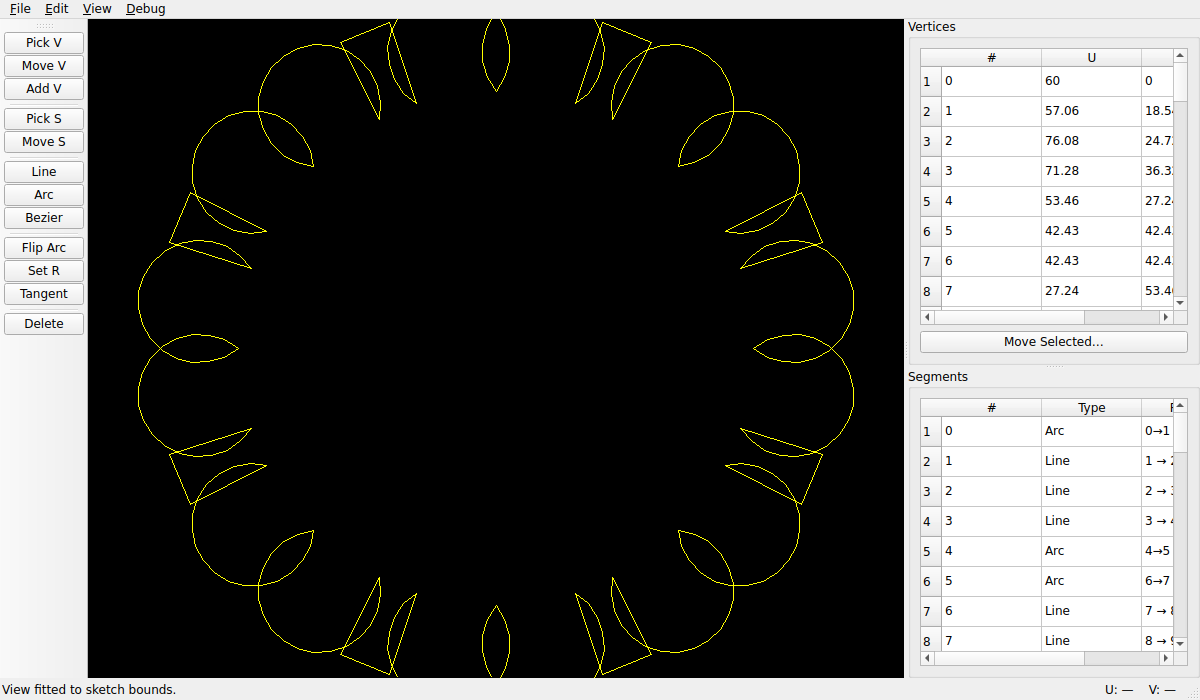
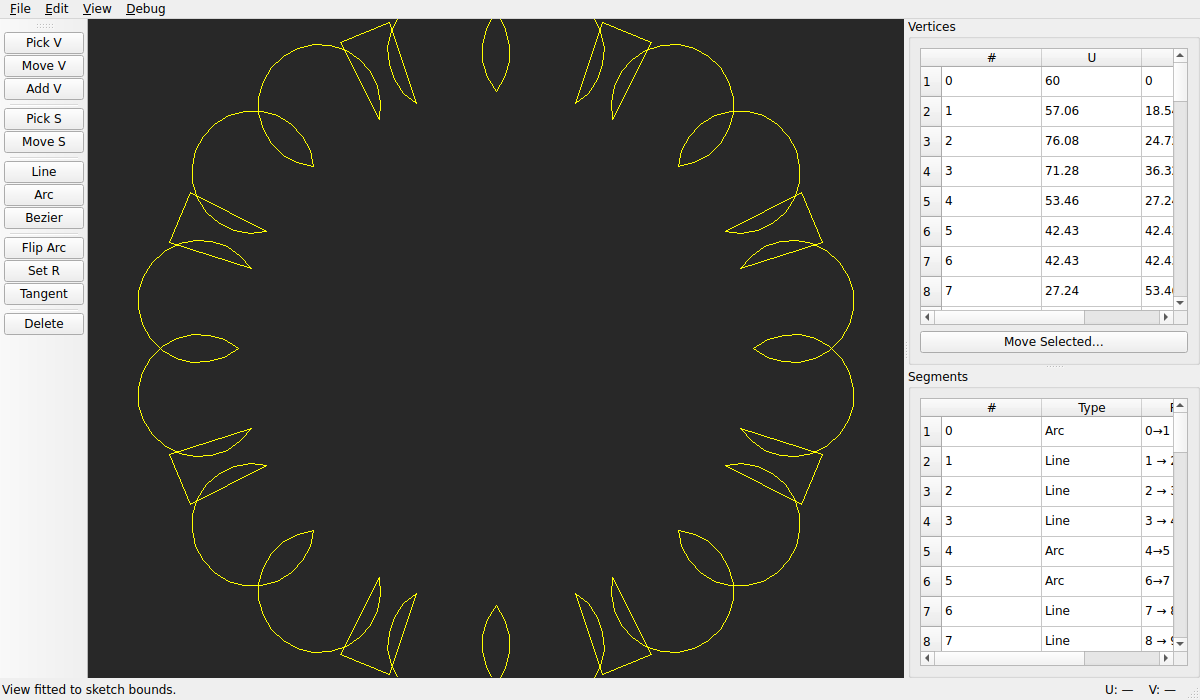
Use dark grey DM background in get_viewport_image for better screenshot quality

diff --git a/brlcad/src/libqtcad/QgSW.cpp b/brlcad/src/libqtcad/QgSW.cpp
@@ -425,8 +425,17 @@ void QgSW::get_viewport_image(QImage &img)
     unsigned char *dm_bg1;
     unsigned char *dm_bg2;
     dm_get_bg(&dm_bg1, &dm_bg2, dmp);
-    dm_set_bg(dmp, dm_bg1[0], dm_bg1[1], dm_bg1[2],
-		   dm_bg2[0], dm_bg2[1], dm_bg2[2]);
+    /* Use a dark-grey background for better visibility in screenshots;
+     * fall through to the stored background if it is already non-black. */
+    unsigned char bg1r = dm_bg1[0], bg1g = dm_bg1[1], bg1b = dm_bg1[2];
+    unsigned char bg2r = dm_bg2[0], bg2g = dm_bg2[1], bg2b = dm_bg2[2];
+    if (bg1r == 0 && bg1g == 0 && bg1b == 0 &&
+	bg2r == 0 && bg2g == 0 && bg2b == 0) {
+	/* Default black: override with a neutral dark background */
+	bg1r = bg1g = bg1b = 40;
+	bg2r = bg2g = bg2b = 40;
+    }
+    dm_set_bg(dmp, bg1r, bg1g, bg1b, bg2r, bg2g, bg2b);
     dm_loadmatrix(dmp, v->gv_model2view, 0);
     dm_draw_begin(dmp);
     dm_draw_objs(v, draw_custom, draw_udata);
